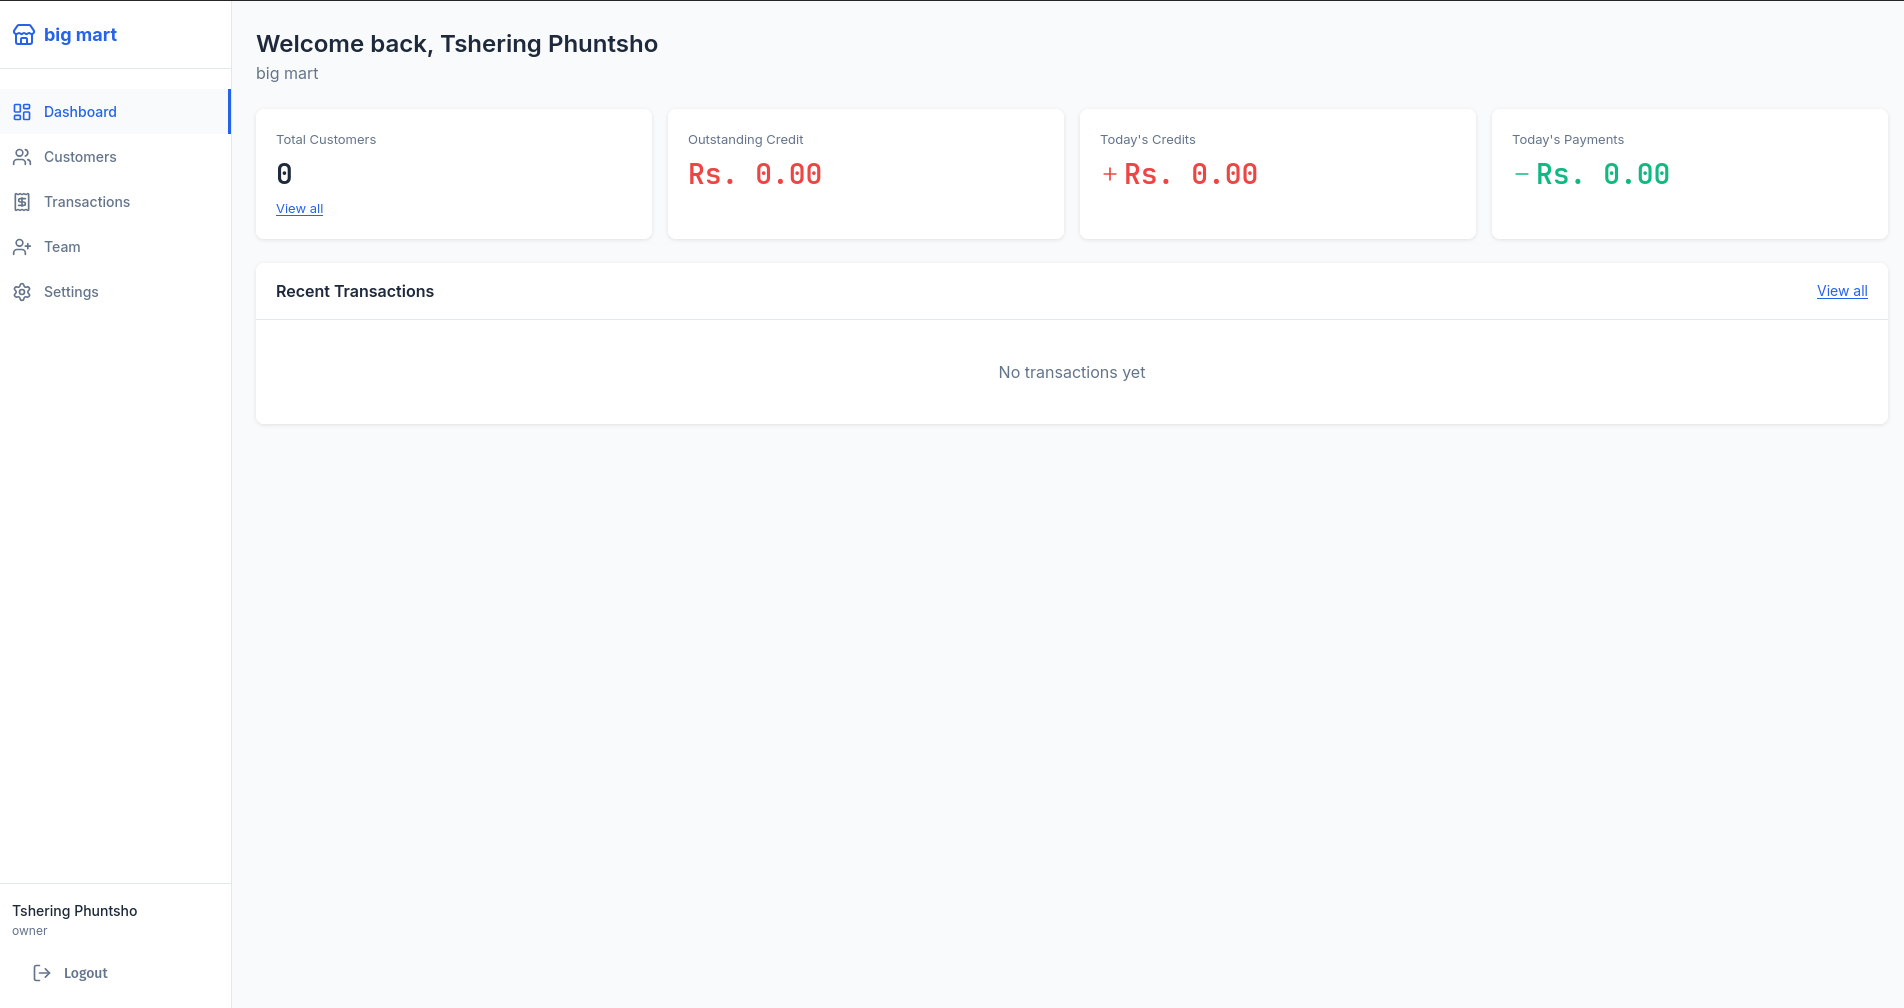
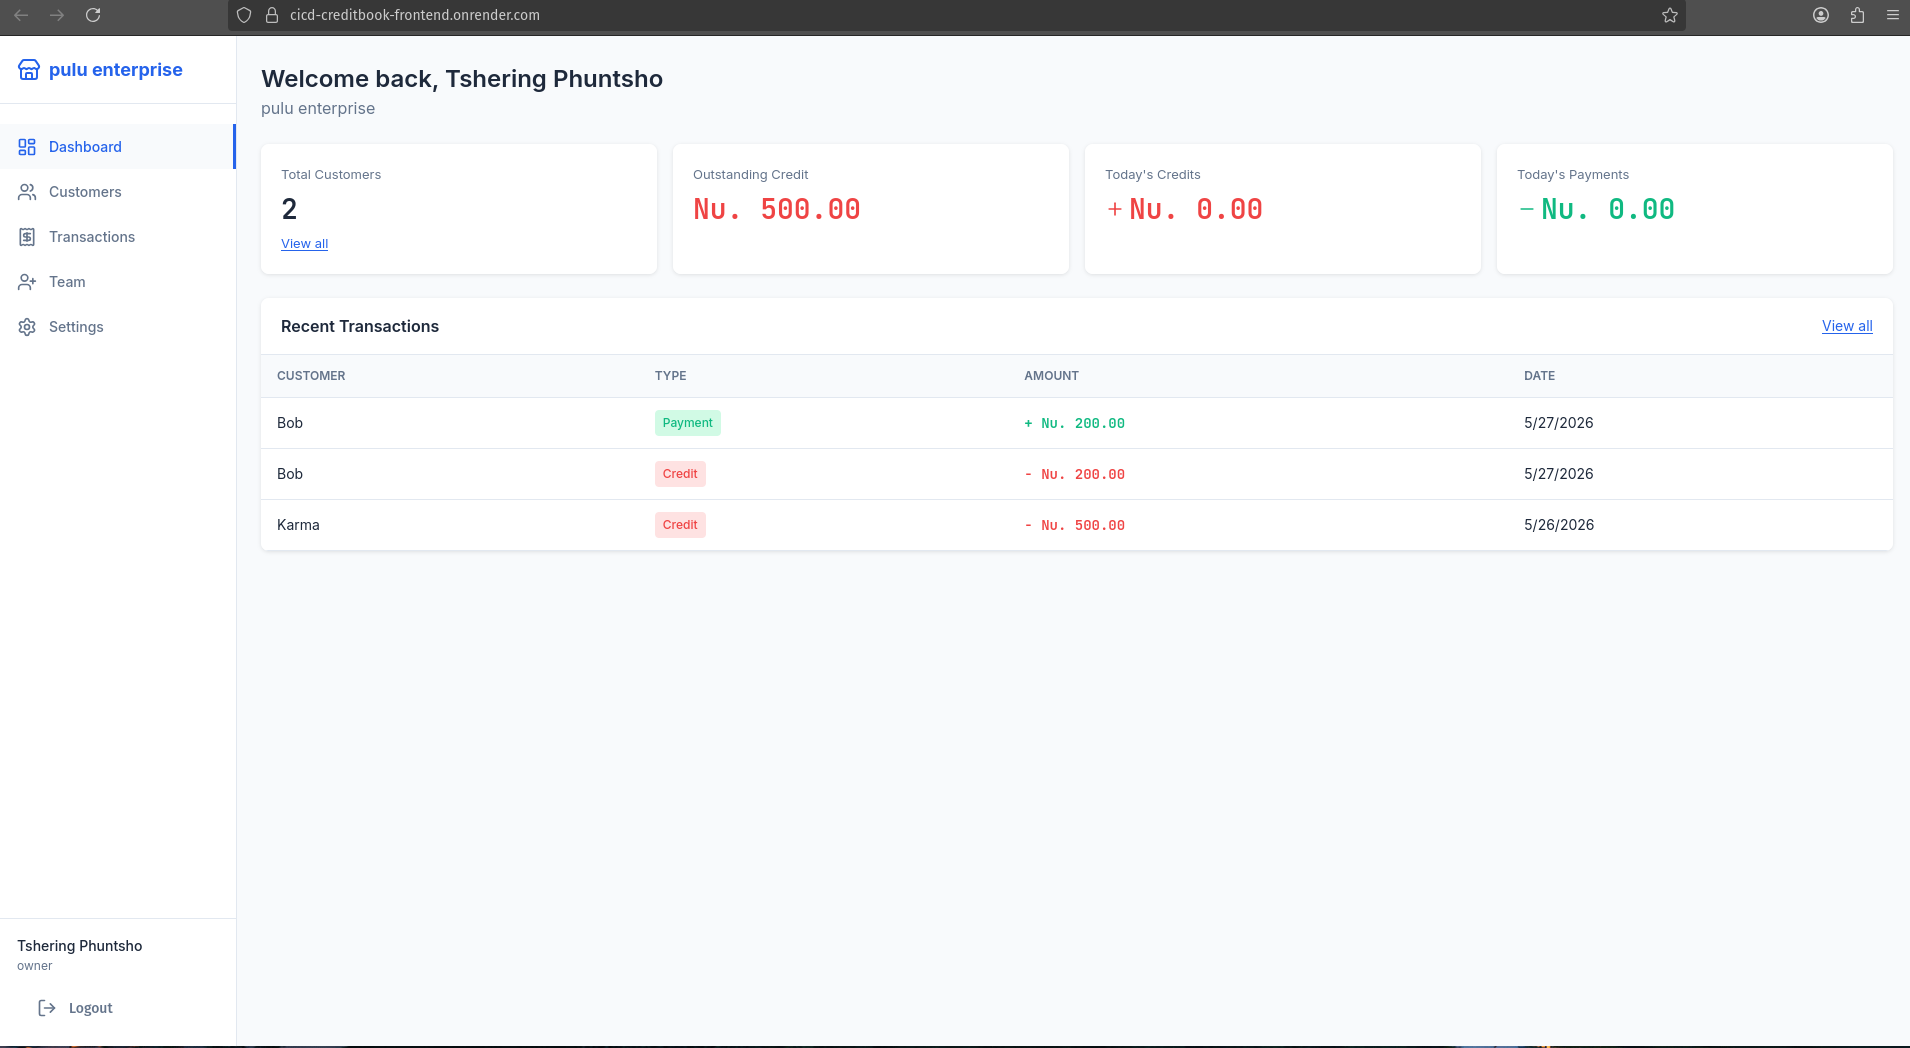
D

diff --git a/README.md b/README.md
@@ -352,24 +352,6 @@ CreditBook implements automated security scanning using **Trivy**, an industry-l
 - **On Every Pull Request**: Automated security checks before merge
 - **Daily Schedule**: 2 AM UTC for comprehensive scanning
 
-### Running Local Security Scans
-
-```bash
-# Comprehensive scan (all components)
-chmod +x scripts/security-scan.sh
-./scripts/security-scan.sh
-
-# Quick scan (filesystem)
-trivy fs . --config .trivy.yaml
-
-# Scan Docker images
-chmod +x scripts/scan-docker-images.sh
-./scripts/scan-docker-images.sh
-
-# Scan for secrets
-trivy secret .
-```
-
 ## Project Structure
 
 ```
